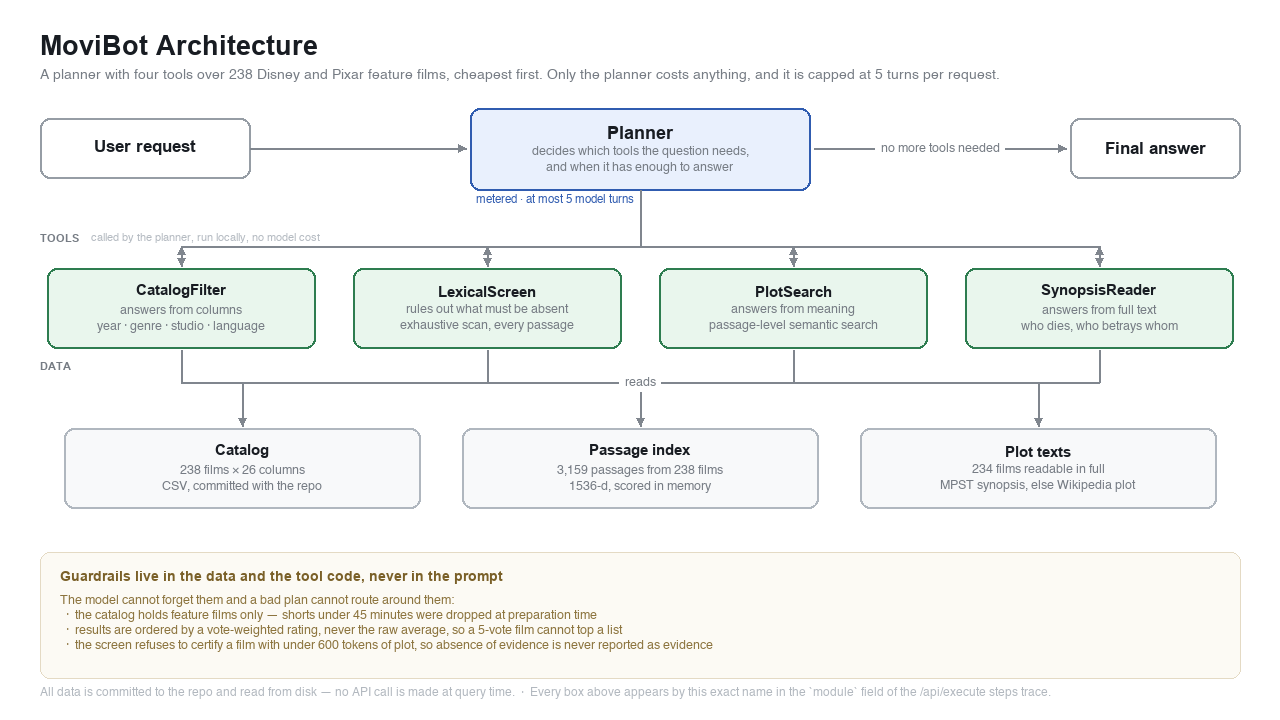
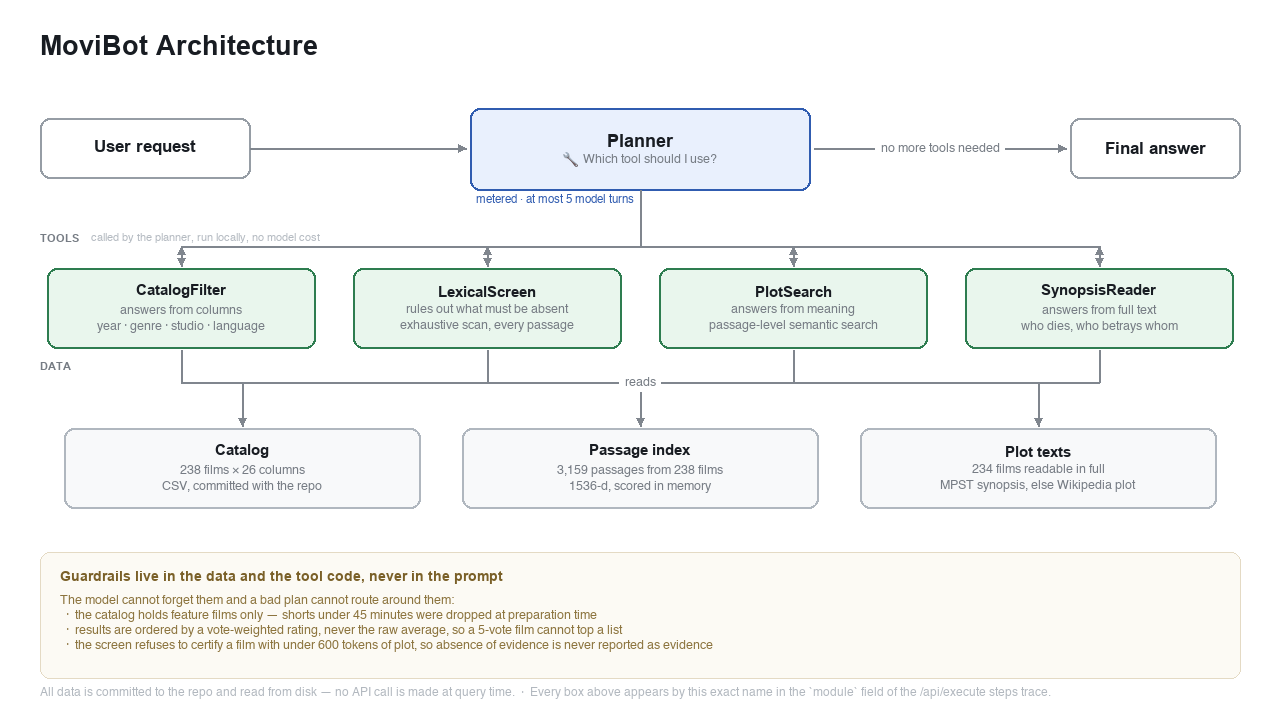
Diagram: drop the subtitle, shorten the planner line, allow emoji
Apple Color Emoji is a bitmap font with fixed strikes (20/32/64 valid, 16
raises), so emoji are rendered at 64 and downsampled to whatever size is
wanted. Missing font degrades to no emoji rather than crashing.

Changed region(s): [[0.0312, 0.0917, 0.7812, 0.1222], [0.4062, 0.1528, 0.5938, 0.2444]]

diff --git a/scripts/generate_architecture_diagram.py b/scripts/generate_architecture_diagram.py
@@ -56,13 +56,38 @@ def _font(size: int, bold: bool = False):
     return ImageFont.load_default()
 
 
+_EMOJI_FONT = "/System/Library/Fonts/Apple Color Emoji.ttc"
+
+
+def _emoji(char: str, size: int) -> "Image.Image | None":
+    """An emoji as an RGBA image, at any size.
+
+    Apple Color Emoji is a bitmap font with fixed strikes -- 20, 32 and 64 are
+    valid, 16 raises "invalid pixel size". So it is always rendered at 64 and
+    downsampled, which also anti-aliases better than asking for a small strike.
+    Returns None if the font is missing, so a Linux box still renders the
+    diagram without emoji rather than crashing.
+    """
+    if not os.path.exists(_EMOJI_FONT):
+        return None
+    try:
+        font = ImageFont.truetype(_EMOJI_FONT, 64)
+    except OSError:
+        return None
+    tile = Image.new("RGBA", (76, 76), (0, 0, 0, 0))
+    ImageDraw.Draw(tile).text((4, 4), char, font=font, embedded_color=True)
+    return tile.crop(tile.getbbox() or (0, 0, 76, 76)).resize(
+        (size, size), Image.LANCZOS
+    )
+
+
 def _centre(draw, cx, y, text, font, fill):
     b = draw.textbbox((0, 0), text, font=font)
     draw.text((cx - (b[2] - b[0]) / 2, y), text, fill=fill, font=font)
 
 
 def _box(draw, xy, title, lines=(), fill=PLAIN_FILL, line=PLAIN_LINE,
-         title_size=17):
+         title_size=17, img=None, emoji=None):
     draw.rounded_rectangle(xy, radius=10, fill=fill, outline=line, width=2)
     x0, y0, x1, y1 = xy
     cx = (x0 + x1) / 2
@@ -75,7 +100,18 @@ def _box(draw, xy, title, lines=(), fill=PLAIN_FILL, line=PLAIN_LINE,
     _centre(draw, cx, y, title, tf, INK)
     y += draw.textbbox((0, 0), title, font=tf)[3] + 6
     for text in lines:
-        _centre(draw, cx, y, text, sf, MUTED)
+        # An emoji cannot be drawn in the same call as the text -- it comes
+        # from a different font -- so the pair is centred as one unit and the
+        # two are placed side by side.
+        glyph = _emoji(emoji, 15) if (emoji and text is lines[0]) else None
+        if glyph is not None and img is not None:
+            tw = draw.textbbox((0, 0), text, font=sf)[2]
+            total = glyph.width + 5 + tw
+            gx = int(cx - total / 2)
+            img.paste(glyph, (gx, int(y) - 1), glyph)
+            draw.text((gx + glyph.width + 5, y), text, fill=MUTED, font=sf)
+        else:
+            _centre(draw, cx, y, text, sf, MUTED)
         y += 16
 
 
@@ -141,13 +177,6 @@ def main() -> None:
     draw = ImageDraw.Draw(img)
 
     draw.text((40, 30), "MoviBot Architecture", fill=INK, font=_font(27, bold=True))
-    draw.text(
-        (40, 68),
-        f"A planner with four tools over {n['films']} Disney and Pixar feature films, "
-        f"cheapest first. Only the planner costs anything, and it is capped at "
-        f"{loop.MAX_ROUNDS} turns per request.",
-        fill=MUTED, font=_font(14),
-    )
 
     # ---- request / planner / answer -----------------------------------
     req = (40, 118, 250, 178)
@@ -156,8 +185,9 @@ def main() -> None:
 
     _box(draw, req, "User request")
     _box(draw, plan, tools.TRACE_NAMES.get("planner", "Planner"),
-         ("decides which tools the question needs,", "and when it has enough to answer"),
-         fill=PAID_FILL, line=PAID_LINE, title_size=18)
+         ("Which tool should I use?",),
+         fill=PAID_FILL, line=PAID_LINE, title_size=18,
+         img=img, emoji="\U0001F527")
     _box(draw, ans, "Final answer")
 
     _arrow(draw, (250, 148), (466, 148))
